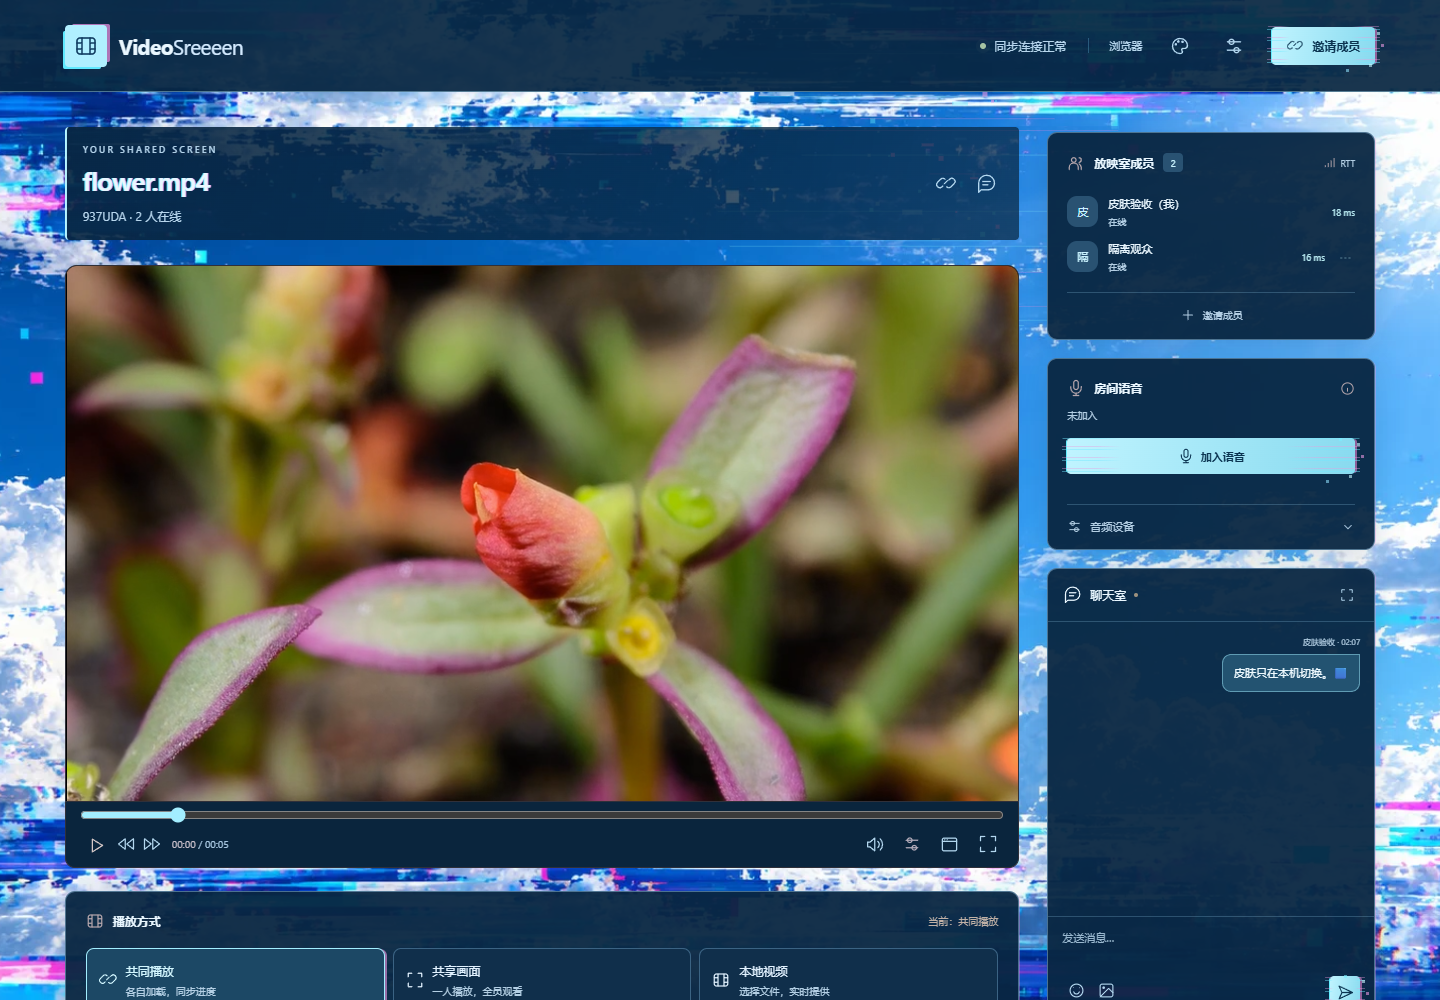
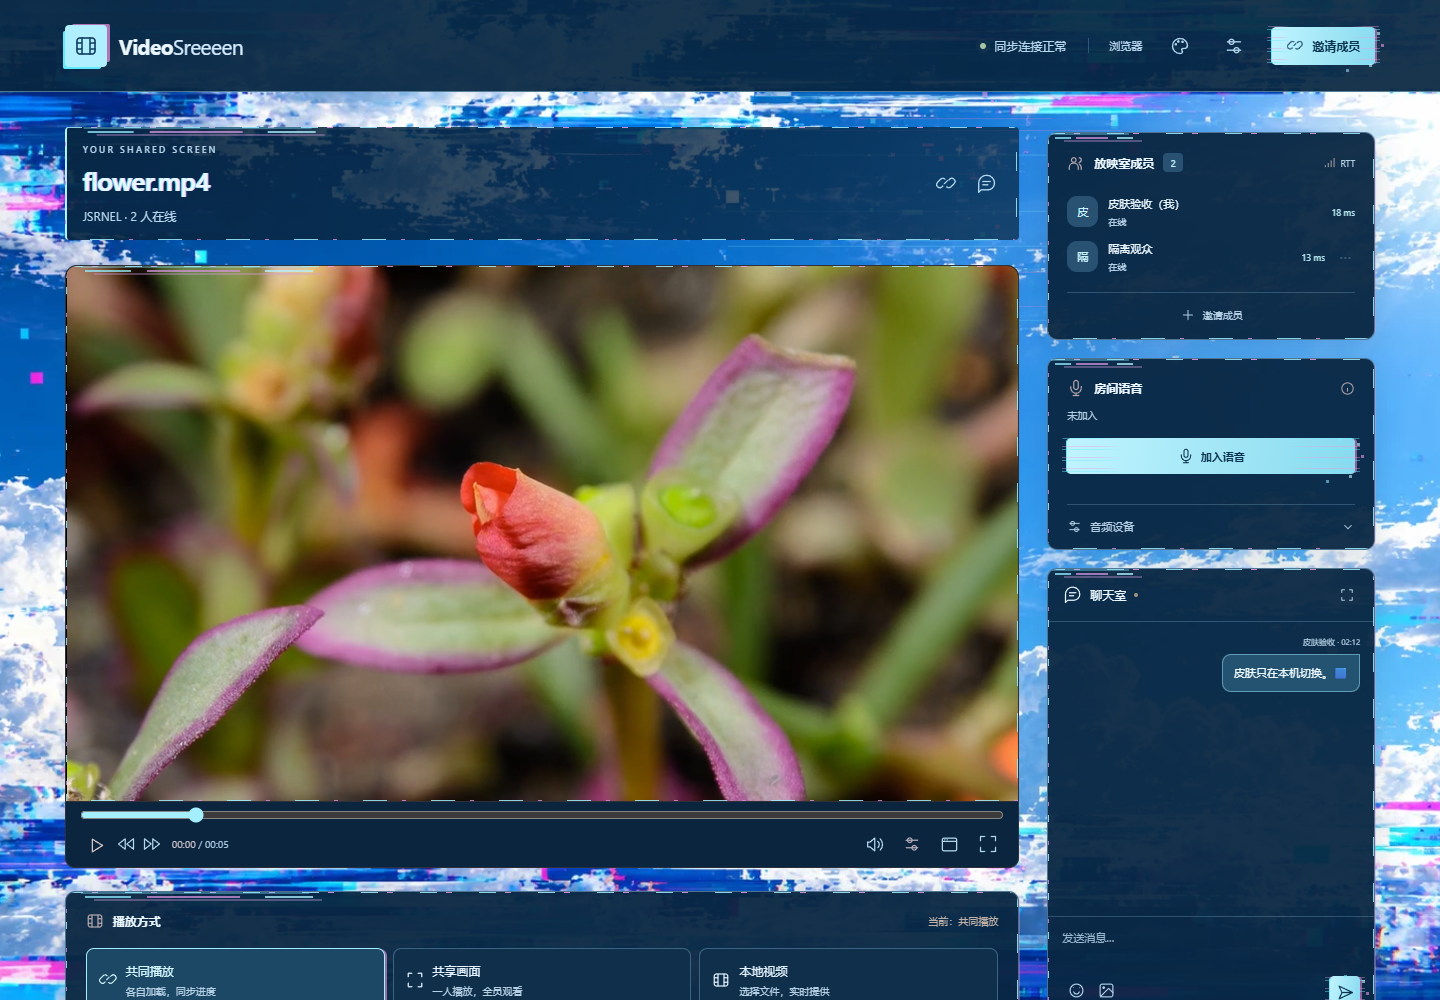
Extend Glitch Art to interactive container frames

diff --git a/client/themes.css b/client/themes.css
@@ -362,6 +362,158 @@ dialog .theme-choice input {
 }
 
 /* Only decorative layers fragment. Actual text, click targets and video remain intact. */
+:root[data-theme='glitch'] :is(.source-card, .members-card, .room-heading, .cache-options) {
+  position: relative;
+}
+:root[data-theme='glitch']
+  :is(
+    .source-card,
+    .members-card,
+    .chat-panel,
+    .room-heading,
+    .cache-options,
+    dialog,
+    .stage
+  )::before {
+  content: '';
+  position: absolute;
+  inset: 0;
+  z-index: 31;
+  border-radius: inherit;
+  pointer-events: none;
+  background:
+    repeating-linear-gradient(
+        90deg,
+        #a5efff 0 17px,
+        transparent 17px 26px,
+        #ef9ee8 26px 32px,
+        transparent 32px 59px
+      )
+      top left / 100% 1px no-repeat,
+    repeating-linear-gradient(
+        90deg,
+        transparent 0 25px,
+        #9feeff 25px 49px,
+        transparent 49px 64px,
+        #d58cdb 64px 68px
+      )
+      bottom left / 100% 1px no-repeat,
+    repeating-linear-gradient(
+        0deg,
+        #a5efff 0 7px,
+        transparent 7px 16px,
+        #c38cdd 16px 20px,
+        transparent 20px 39px
+      )
+      top left / 1px 100% no-repeat,
+    repeating-linear-gradient(0deg, transparent 0 23px, #9feeff 23px 42px, transparent 42px 46px)
+      top right / 1px 100% no-repeat;
+  opacity: 0.85;
+}
+:root[data-theme='glitch']
+  :is(
+    .source-card,
+    .members-card,
+    .chat-panel,
+    .room-heading,
+    .cache-options,
+    dialog,
+    .stage
+  )::after {
+  content: '';
+  position: absolute;
+  z-index: 31;
+  top: 4px;
+  left: 2%;
+  width: 24%;
+  height: 2px;
+  pointer-events: none;
+  background: linear-gradient(
+    90deg,
+    #93edff 0 20%,
+    transparent 20% 27%,
+    #d291db 27% 68%,
+    transparent 68% 79%,
+    #b2f3ff 79%
+  );
+  box-shadow:
+    -4px -4px 0 -0.5px #80e3ff,
+    9px 3px 0 -0.5px #ce9cdd;
+  opacity: 0.75;
+}
+@keyframes theme-frame-tear {
+  0%,
+  100% {
+    transform: translateX(0);
+  }
+  25% {
+    transform: translateX(-2px);
+  }
+  55% {
+    transform: translateX(3px);
+  }
+  80% {
+    transform: translateX(-1px);
+  }
+}
+@media (hover: hover) and (prefers-reduced-motion: no-preference) {
+  :root[data-theme='glitch']
+    :is(
+      .source-card,
+      .members-card,
+      .chat-panel,
+      .room-heading,
+      .cache-options,
+      dialog,
+      .stage
+    ):hover::before {
+    animation: theme-frame-tear 1000ms steps(4) 1;
+  }
+  :root[data-theme='glitch']
+    :is(
+      .source-card,
+      .members-card,
+      .chat-panel,
+      .room-heading,
+      .cache-options,
+      dialog,
+      .stage
+    ):hover::after {
+    animation: theme-frame-tear 850ms steps(3) 1 reverse;
+  }
+}
+@media (prefers-reduced-motion: reduce), (forced-colors: active) {
+  :root[data-theme='glitch']
+    :is(
+      .source-card,
+      .members-card,
+      .chat-panel,
+      .room-heading,
+      .cache-options,
+      dialog,
+      .stage
+    )::before,
+  :root[data-theme='glitch']
+    :is(
+      .source-card,
+      .members-card,
+      .chat-panel,
+      .room-heading,
+      .cache-options,
+      dialog,
+      .stage
+    )::after {
+    display: none;
+  }
+}
+:root[data-theme='glitch'] .page-cinema .stage::before,
+:root[data-theme='glitch'] .page-cinema .stage::after,
+:root[data-theme='glitch'] .stage:fullscreen::before,
+:root[data-theme='glitch'] .stage:fullscreen::after,
+:root[data-theme='glitch'] .player-shell:fullscreen .stage::before,
+:root[data-theme='glitch'] .player-shell:fullscreen .stage::after {
+  display: none;
+}
 :root[data-theme='glitch']
   :is(.topbar, .source-card, .hero-actions, .voice-actions, .dialog-buttons)
   .button,

diff --git a/scripts/appearance-check.ts b/scripts/appearance-check.ts
@@ -203,6 +203,18 @@ try {
   await owner.locator('#send-button').click();
   await viewer.locator('.bubble').filter({ hasText: '皮肤只在本机切换。🟦' }).waitFor();
   proof.independentViewerAndChat = true;
+  const drag = await owner.locator('#chat-drag').boundingBox();
+  assert.ok(drag);
+  await owner.mouse.move(drag.x + 40, drag.y + 10);
+  await owner.mouse.down();
+  await owner.mouse.move(drag.x - 60, drag.y + 35);
+  await owner.mouse.up();
+  assert.equal(
+    await owner.locator('#chat-panel').evaluate((e) => getComputedStyle(e).position),
+    'fixed',
+  );
+  await owner.locator('#chat-dock').click();
+  proof.floatingChatPreserved = true;
   await owner.locator('#play-button').click();
   await owner.locator('#cache-options > summary').click();
   await owner.screenshot({ path: '.local/screenshots/theme-glitch-room.png', fullPage: true });
@@ -318,6 +330,14 @@ try {
     transform,
   );
   proof.buttonHoverAnimation = true;
+  await owner.locator('#members').hover();
+  const frame = owner.locator('.members-card').first();
+  assert.equal(
+    await frame.evaluate((e) => getComputedStyle(e, '::before').animationName),
+    'theme-frame-tear',
+  );
+  assert.equal(await frame.evaluate((e) => getComputedStyle(e, '::before').pointerEvents), 'none');
+  proof.containerFrames = true;
   assert.equal(
     await owner
       .locator('#room-button')
@@ -326,6 +346,10 @@ try {
   );
   await owner.locator('#page-fullscreen').click();
   await owner.waitForFunction(() => document.body.classList.contains('page-cinema'));
+  assert.equal(
+    await owner.locator('#stage').evaluate((e) => getComputedStyle(e, '::before').display),
+    'none',
+  );
   assert.equal(
     await owner.evaluate(
       () => document.querySelector('#video') === (window as any).__appearancePlayer,

diff --git a/docs/appearance.md b/docs/appearance.md
@@ -17,6 +17,8 @@
 
 按钮在悬停期间持续运行水平条带和碎片动画，离开即恢复，不改变文字或点击范围。系统启用减少动态效果时关闭背景交互和按钮动画，触屏保留静态装饰。切回原版释放画布 backing store；页面隐藏、系统全屏和网页全屏停止动态背景，正文使用深蓝面板承托，不给影片或字幕添加损坏效果，也不采样视频或第三方页面。
 
+播放方式卡片、成员 / 语音卡片、聊天室、房间标题、缓存面板、设置窗口和播放器外框使用分段像素线、短横带及 RGB 错位边缘。鼠标扫入时仅装饰边框短暂错位，实际容器、排版和点击区域不移动；浮动聊天继续保持 fixed 定位。系统 / 网页全屏隐藏播放器装饰框，减少动态效果与强制颜色模式隐藏这层边框效果。
+
 ## 素材与生成提示词
 
 - 使用内置 `image_gen` 生成背景，不使用 CLI/API 备用路径。项目资源：`client/assets/themes/glitch-sky.webp`，267,878 字节；页面通过 Vite 资源哈希引用，不依赖外部图片站。
@@ -37,6 +39,7 @@ Create one production website background asset, landscape 16:9, high detail. Use
 - 手动固定同款和不同款、后续标签页记忆、恢复随机、方向键切换、存储禁用仍可使用。
 - 双端播放中换皮肤：原 video 元素和地址保留，没有 loadstart、暂停或房间控制消息；另一端外观不变，聊天正常。
 - 网页全屏仍保留原播放器；减少动态效果无动画，装饰不接收指针事件。
+- 容器外框实际悬停动画与指针穿透、聊天拖拽后 fixed 定位 / 停靠、全屏隐藏播放器装饰框通过。
 - 系统强制颜色模式下隐藏装饰背景，选择卡片仍以勾号标明当前皮肤。
 - 通过鼠标扫描前后的真实画布像素变化核对交互，停止后像素稳定；按钮悬停的实际 transform 持续变化。2560×1440 和 800×1100 画布覆盖边缘，浏览器模拟 1.5 倍 visual viewport 缩放截图验证，未以静态背景图替代互动实现。
 - 1440px 桌面与 390px / 320px 窄屏、设置面板截图已目视检查，无横向溢出。均为桌面 Edge，**不代表 Android / iOS 真机验证**；测试不访问用户麦克风、当前房间或设备。
